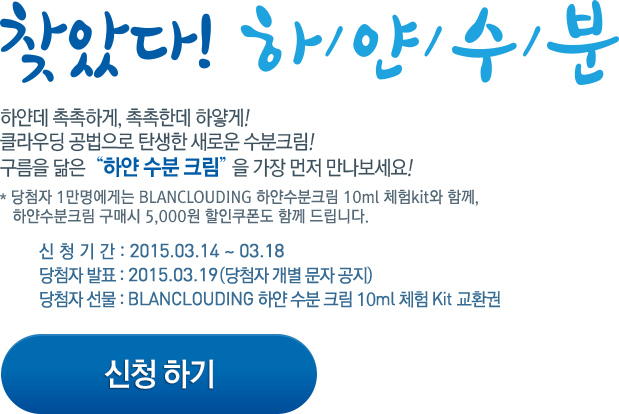
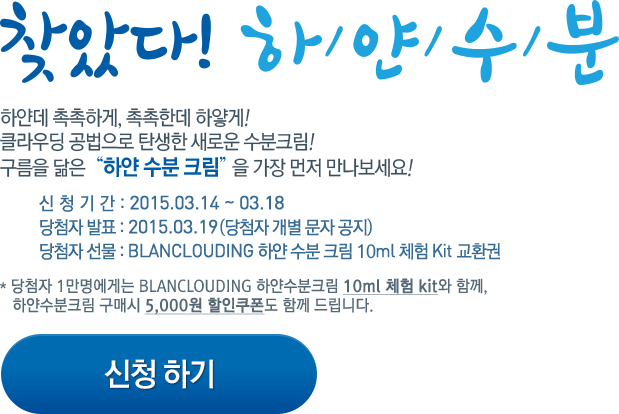
이미지 수정

Changed region(s): [[0.0, 0.4348, 0.8288, 0.7826], [0.1535, 0.8696, 0.3376, 0.9275]]

diff --git a/MOBILE/css/style.css b/MOBILE/css/style.css
@@ -166,7 +166,7 @@ body {
 }
 
 .contents_wrap .bg_cloud .event {
-	padding:73% 0 72%;
+	padding:84% 0 61%;
 }
 .contents_wrap .bg_cloud .event .btn_gift{
     width:62%;

diff --git a/PC/css/style.css b/PC/css/style.css
@@ -139,7 +139,7 @@
 	display:block;
 	position:absolute;
 	left:0;
-	top:41%;
+	top:48%;
 	width:320px;
 	height:80px;
 	background:#eee;
